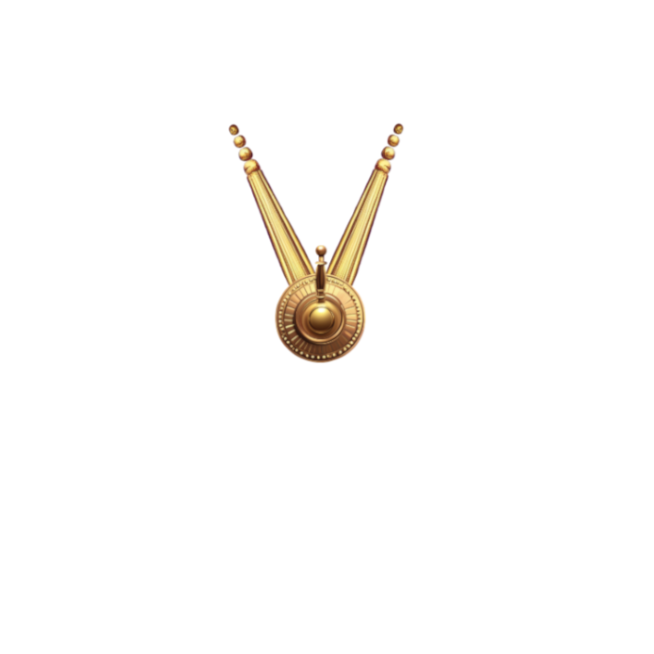
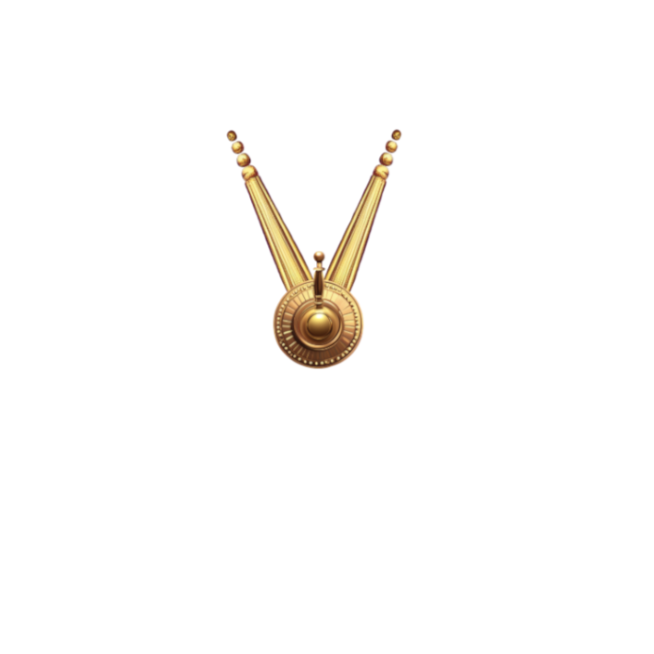
fix

Changed region(s): [[0.3364, 0.1835, 0.581, 0.581], [0.5505, 0.1835, 0.6422, 0.3058]]

diff --git a/src/App.css b/src/App.css
@@ -25,8 +25,11 @@ body{
 }
 .Image-container {
   position: relative;
-  width: 634px; /* Ensure the container is the same size as the images */
-  height: 634px;
+
+  width: 634px; /* New width */
+  height: 634px; 
+
+  
   top: -96px;
   z-index: 2;
   overflow: hidden;
@@ -84,7 +87,7 @@ body{
 .App-button {
   width: 252px;
   height: 67px;
-  margin-top: -217px;
+  margin-top: -207px;
   padding: 10px 20px;
   font-size: 16px;
   z-index: 6000;
@@ -124,7 +127,7 @@ body{
 .App-link{
   width: 252px;
   height: 67px;
-  margin-top: -217px;
+  margin-top: -207px;
   padding: 10px 20px;
   font-size: 16px;
   z-index: 666;
@@ -183,11 +186,11 @@ body{
     height: 654px;
   }
   .App-overlay{
-    width: 634px;
-    height: 634px;
+    width: 654px;
+    height: 654px;
     position: absolute;
     top: 50%; /* Adjust this value to set the vertical position */
-    left: 50%; /* Adjust this value to set the horizontal position */
+    left: 51%; /* Adjust this value to set the horizontal position */
     transform: translate(-50%, -50%); /* Center the image within the container */
     pointer-events: none;
     z-index: 3; /* Ensure the overlay is on top of other elements */
@@ -231,7 +234,6 @@ body{
   .Top-header{
     object-fit: fill;
     content: url('./top_header_mobile.svg');
-    width: 95%;
     
   }
   .Bottom-header{
@@ -242,9 +244,9 @@ body{
     line-height: 31.67px;
   }
   .Image-container{
-    width: 346.46px;
-    height: 346.46px;
-    top: 155px;
+    width: 384.46px;
+    height: 384.46px;
+    top: 140px;
   }
   .App-overlay {
   position: absolute;
@@ -260,7 +262,7 @@ body{
 
 }
 .App-button{
-  margin-top: 86px;
+  margin-top: 76px;
   width: 133.5px;
   height: 35.49px;
   line-height: normal;
@@ -270,7 +272,7 @@ body{
   z-index: 6000;
 }
 .App-link{
-  margin-top: 86px;
+  margin-top: 76px;
   width: 133.5px;
   height: 35.49px;
   line-height: normal;

diff --git a/src/App.js b/src/App.js
@@ -1,5 +1,5 @@
 import React, { useState, useEffect } from 'react';
-import logo from './wheel_BG.svg'; // Wheel image to prioritize
+import logo from './wheel_BG.png'; // Wheel image to prioritize
 import top_header from './top_header.png';
 import overlay from './arrow.png';
 import leftImage from './left-image.png'; // New left-side image
@@ -23,10 +23,10 @@ function App() {
 
   // Function to handle spin
   const handleSpin = () => {
-    const degreesArray = [44, 89, 134, 180, 224, 269, 359]; // Array of possible degrees
+    const degreesArray = [45, 90, 137, 181, 225, 270, 360]; // Array of possible degrees
     const randomIndex = Math.floor(Math.random() * degreesArray.length); // Get a random index
     const degrees = degreesArray[randomIndex]; // Get the degree from the array
-    const newRotation = rotation + 360 + degrees;
+    const newRotation = rotation + degrees;
     setRotation(newRotation);
     setIsButtonDisabled(true); // Disable the button after clicking
 

diff --git a/public/index.html b/public/index.html
@@ -24,7 +24,7 @@
       work correctly both with client-side routing and a non-root public URL.
       Learn how to configure a non-root public URL by running `npm run build`.
     -->
-    <title>React App</title>
+    <title>Celebrate with us!</title>
   </head>
   <body>
     <noscript>You need to enable JavaScript to run this app.</noscript>

diff --git a/public/contact.html b/public/contact.html
@@ -3,7 +3,7 @@
 <head>
 	<meta charset="utf-8">
 	<meta name="viewport" content="width=device-width, initial-scale=1">
-	<title>Take your prize</title>
+	<title>Contact Us</title>
 	<style type="text/css">
 		@font-face {
 			font-family: 'Bebas Neue';
